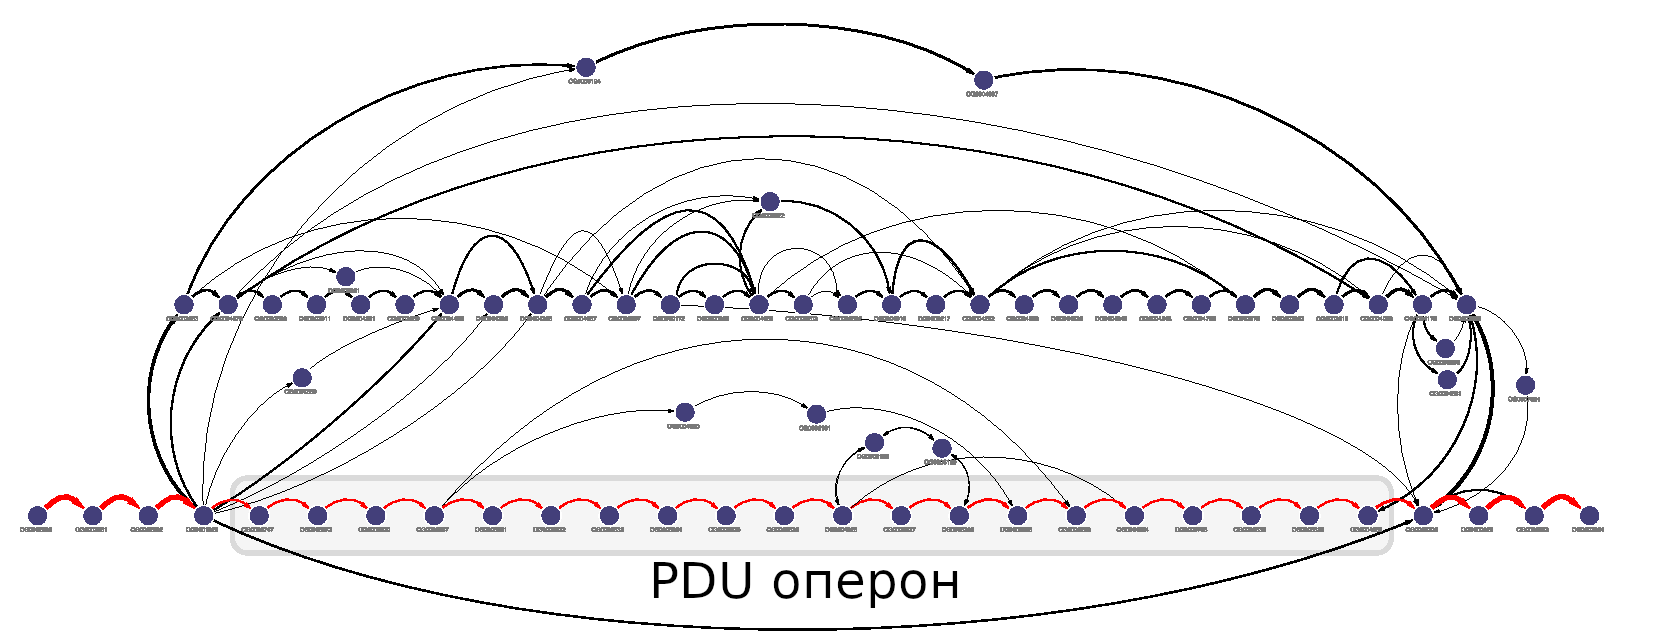
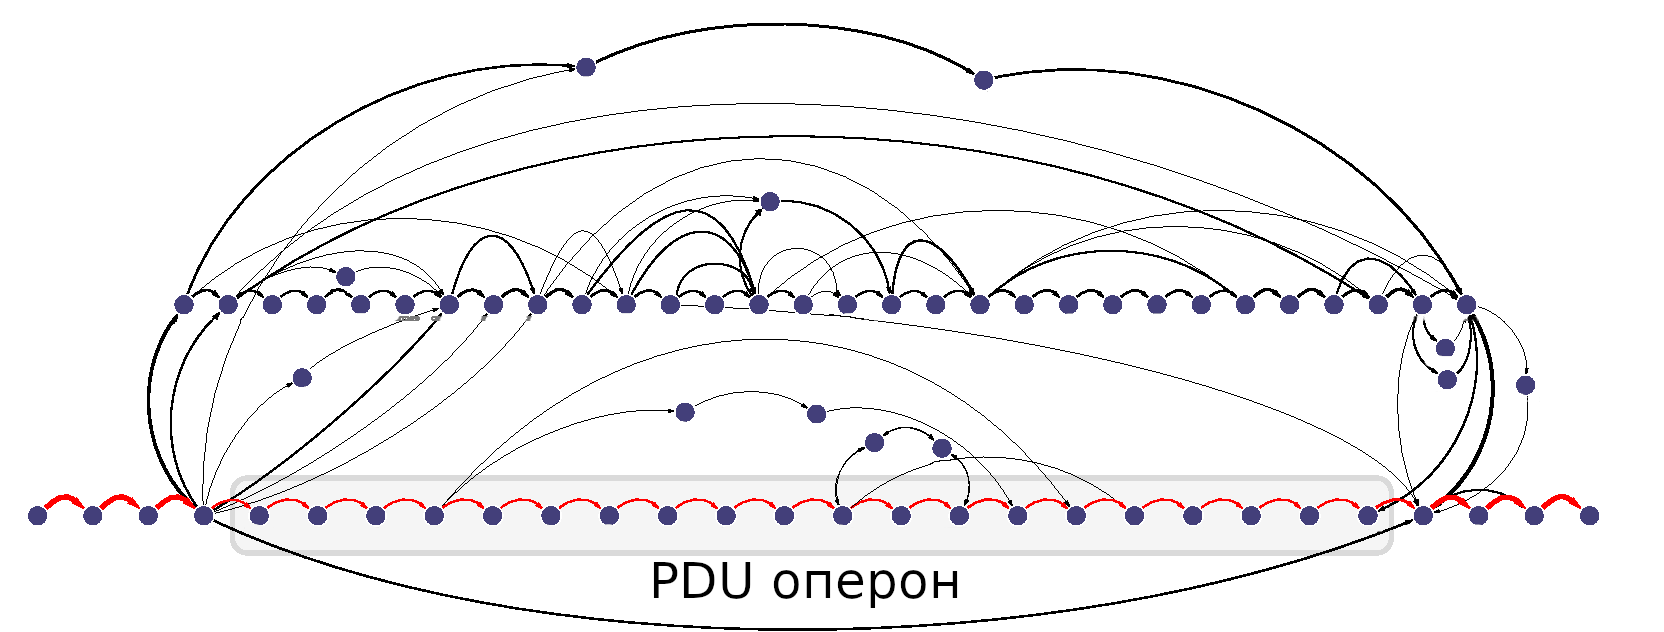
predzashita

diff --git a/Synopsis/content.tex b/Synopsis/content.tex
@@ -31,7 +31,7 @@
 
 \subsection*{Анализ изменчивости геномов отдельных видов прокариот}
 \subsubsection*{Отбор последовательностей геномов для анализа геномной вариабельности}
-Для анализа геномной изменчивости \textit{E. coli}, мы использовали 327 геномов данного организма доступные в базе RefSeq на момент ноября 2017 года и собранных до уровня репликонов ("финишированная"\ сборка). Для анализа изменчивости в различных филогруппах \textit{E. coli} нами были отобраны пять геномов --- представителей наиболее крупных филогрупп данного организма (подбор проводился на основе литературных данных); затем для каждого представителя были выбраны 100 наиболее близких по нуклеотидному составу геномов, доступных в базе RefSeq. Для поиска наиболее близких последовательностей геномов мы проводили выравнивание программой nucmer, сортировали последовательности по убыванию суммарной длины выровненных участков и выбирали 100 наиболее близких последовательностей; поиск проводили по всем последовательностям геномов, доступных в базе RefSeq. 
+Для анализа геномной изменчивости \textit{E. coli} мы использовали 327 геномов данного организма доступные в базе RefSeq на момент ноября 2017 года и собранных до уровня репликонов ("финишированная"\ сборка). Для анализа изменчивости в различных филогруппах \textit{E. coli} нами были отобраны пять геномов --- представителей наиболее крупных филогрупп данного организма (подбор проводился на основе литературных данных); затем для каждого представителя были выбраны 100 наиболее близких по нуклеотидному составу геномов, доступных в базе RefSeq. Для поиска наиболее близких последовательностей геномов мы проводили выравнивание программой nucmer, сортировали последовательности по убыванию суммарной длины выровненных участков и выбирали 100 наиболее близких последовательностей; поиск проводили по всем последовательностям геномов, доступных в базе RefSeq. 
 
 Для анализа внутривидовых структур у \textit{Pseudomonas aeruginosa}, \textit{Pseudomonas fluorescens} и \textit{Neisseria gonorrhoeae} нами были выгружены все полногеномные последовательности, доступные в RefSeq. Для каждого вида в отдельности было построено филогенетическое дерево при помощи утилиты ParSNP v1.2. На основании полученных филогенетических деревьев мы выбрали от двух до четырех клад дерева для дальнейшего анализа. При выборе мы ориентировались на количество геномов в соответствующей кладе. 
 
@@ -58,7 +58,7 @@
 
 \subsubsection*{Выделение изолятов \textit{E. coli}}
 
-Выделение \textit{E. coli} выполняли следующим образом. Приблизительно 0,05 мл объема фекалий помещали в 0,5 мл стерильного буфера (PBS), перемешивали на вортексе до гомогенности, аликвоту разбавляли примерно в 106 раз. Затем 0,1 мл полученной жидкости наносили на чашки со средой LB. После инкубации в течение ночи при 37$^\circ$C изолированные колонии идентифицировали с помощью программного обеспечения Matrix Assisted Laser Desorbtion / Ionization (MALDI) Biotyper (Bruker Daltonics, Германия) с использованием масс-спектрометра Microflex LT (Bruker Daltonics, Германия). Для экстракции ДНК все штаммы \textit{E. coli} выращивали в бульоне LB при 37$^\circ$C при встряхивании (200 об/мин) в течение ночи и собирали центрифугированием.
+Выделение \textit{E. coli} выполняли следующим образом. Приблизительно 0,05 мл объема фекалий помещали в 0,5 мл стерильного буфера (PBS), перемешивали на вортексе до гомогенности, аликвоту разбавляли примерно в $10^6$ раз. Затем 0,1 мл полученной жидкости наносили на чашки со средой LB. После инкубации в течение ночи при 37$^\circ$C изолированные колонии идентифицировали с помощью программного обеспечения Matrix Assisted Laser Desorbtion / Ionization (MALDI) Biotyper (Bruker Daltonics, Германия) с использованием масс-спектрометра Microflex LT (Bruker Daltonics, Германия). Для экстракции ДНК все штаммы \textit{E. coli} выращивали в бульоне LB при 37$^\circ$C при встряхивании (200 об/мин) в течение ночи и собирали центрифугированием.
 
 \subsubsection*{Экстракция ДНК и геномное секвенирование}
 
@@ -82,7 +82,7 @@
 \subsubsection{Поиск ортогрупп}
 Полученные последовательности геномов аннотировали с помощью программы PROKKA 1.7. Информация об оперонной структуре была получена из базы данных DOOR. Ортогруппы (группы гомологий включающие как ортологичные, так и паралогичные гены) были получены с помощью программы OrthoFinder v1.0.8. 
 
-Статистический анализ представленности генов и оперонов в последовательностях генома комменсальных штаммов \textit{E. coli}, либо штаммов полученных от пациентов с болезнью Крона проводился при помощи скриптов на языке R, принцип работы которых описан в соответствующем разделе главы Результаты.
+Статистический анализ представленности генов и оперонов в последовательностях генома комменсальных штаммов \textit{E. coli}, либо штаммов, полученных от пациентов с болезнью Крона, проводился при помощи скриптов на языке R, принцип работы которых описан в соответствующем разделе главы Результаты.
 
 
 \section*{Результаты}
@@ -98,19 +98,19 @@
   \label{img:scheme} 
 \end{figure}
 
-Предложенная схема требует уточнения в случае, когда несколько генов из одной геномной последовательности принадлежат к одной ортогруппе (мы будем называть такие гены паралогами). Мы предложили два подхода представления паралогичных генов в графе. В первом случае мы игнорируем паралогичные гены и не добавляем их в граф. Во втором --- мы проводим процедуру "ортологизации"\ паралогичных генов: гены из ортогруппы добавляем в граф с некоторым суффиксом, при этом гены имеющие одинаковый контекст добавляются с одним и тем же суффиксом. В нашей программной реализации пользователь может выбирать применяемый подход. 
+Предложенная схема требует уточнения в случае, когда несколько генов из одной геномной последовательности принадлежат к одной ортогруппе (мы будем называть такие гены паралогами). Мы предложили два подхода представления паралогичных генов в графе. В первом случае мы игнорируем паралогичные гены и не добавляем их в граф. Во втором --- мы проводим процедуру "ортологизации"\ паралогичных генов: гены из ортогруппы добавляем в граф с некоторым суффиксом, при этом гены, имеющие одинаковый контекст, добавляются с одним и тем же суффиксом. В нашей программной реализации пользователь может выбирать применяемый подход. 
 
 \subsection*{Оценка изменчивости геномов при помощи графового представления}
 
 Для исследования изменений генного состава в отдельном локусе генома, мы разработали процедуру построения подграфа, включающего только определенную область интереса референсного генома. Мы предложили использовать подсчет количества путей в соответствующем подграфе в качестве меры локальной изменчивости. В случае, если в некотором регионе не происходит изменений генного состава, то подграф представляет из себя простую структуру с одним возможным путем (способом обхода узлов). В случае, если в данной области происходят изменения, то в подграфе появляются новые пути. Чем больше различных вариантов сочетаний генов наблюдаются в геномных последовательностях, тем больше путей в соответствующем подграфе. 
 
-Оценка локальной вариабельности производится для одного выбранного гена референсного генома с учетом окна (смежных генов), размер которого задается пользователем. Алгоритм расчета состоит в следующем. Вначале строится референсная цепочка узлов, после чего происходит подсчет путей, которые огибают узел (то есть начинаются по одну сторону, а заканчиваются -- по другую). Для подсчета числа путей в графе мы применили вероятностный подход, что позволили увеличить скорость вычислений. Поиск одного пути происходит начиная с первого узла цепочки и затем  случайным образом выбираются последующие вершины, пока путь не вернется в референсную цепочку, либо пока не будет достигнуто максимальное количество переходов. Совершается фиксированное количество итераций поиска путей, каждый новый уникальный путь запоминается. Количество найденных различающихся путей мы считаем мерой локальной изменчивости.
+Оценка локальной вариабельности производится для одного выбранного гена референсного генома с учетом окна (смежных генов), размер которого задается пользователем. Алгоритм расчета состоит в следующем. Вначале строится референсная цепочка узлов, после чего происходит подсчет путей, которые огибают узел (то есть начинаются по одну сторону, а заканчиваются -- по другую). Для подсчета числа путей в графе мы применили вероятностный подход, что позволили увеличить скорость вычислений. Поиск одного пути происходит, начиная с первого узла цепочки, и затем  случайным образом выбираются последующие вершины, пока путь не вернется в референсную цепочку, либо пока не будет достигнуто максимальное количество переходов. Совершается фиксированное количество итераций поиска путей, каждый новый уникальный путь запоминается. Количество найденных различающихся путей мы считаем мерой локальной изменчивости.
 
 \subsection*{Верификация метода оценки локальной изменчивости}
-Для верификации предложенного алгоритма и его программной реализации мы использовали компьютерное моделирование изменений геномных последовательностей. Для каждого локуса моделируемого генома мы задавали определенный уровень изменчивости, затем вероятностным образом изменяли генный состав, получая множество различающихся геномов, и оценивали наблюдаемую вариабельность при помощи предложенного нами подхода. Изменения генного состава происходили за счет вставки, удаления либо перемещения генов а также инверсий фрагментов генома. Вероятность инверсий была в 100 раз меньше вероятностей остальных событий, а размер области для инверсии выбирался случайно из экспоненциального распределения. Локализация событий изменений генного состава выбиралась на каждом шаге случайно, в соответствии с распределением уровня вариабельности. Значения локальной вариабельности задавались в соответствии с одним из типов профилей: пилообразным, ступенчатым либо синусоидальным. Значения коэффициента $R^2$ между исходно заданным уровнем изменчивости и тем, что был оценен при помощи графового подхода, составили 0.95, 0.77 и 0.8 для ступенчатого, синусоидального и пилообразного профиля, соответственно, корреляции имели статистическую значимость с ${p-value < 10^{-10} }$.
+Для верификации предложенного алгоритма и его программной реализации мы использовали компьютерное моделирование изменений геномных последовательностей. Для каждого локуса моделируемого генома мы задавали определенный уровень изменчивости, затем вероятностным образом изменяли генный состав, получая множество различающихся геномов, и оценивали наблюдаемую вариабельность при помощи предложенного нами подхода. Изменения генного состава происходили за счет вставки, удаления либо перемещения генов, а также инверсий фрагментов генома. Вероятность инверсий была в 100 раз меньше вероятностей остальных событий, а размер области для инверсии выбирался случайно из экспоненциального распределения. Локализация событий изменений генного состава выбиралась на каждом шаге случайно, в соответствии с распределением уровня вариабельности. Значения локальной вариабельности задавались в соответствии с одним из типов профилей: пилообразным, ступенчатым либо синусоидальным. Значения коэффициента $R^2$ между исходно заданным уровнем изменчивости и тем, что был оценен при помощи графового подхода, составили 0.95, 0.77 и 0.8 для ступенчатого, синусоидального и пилообразного профиля, соответственно, корреляции имели статистическую значимость с ${p-value < 10^{-10} }$.
 
 \subsection*{Анализ расположения областей повышенной изменчивости в геномных последовательностях кишечной палочки}
-Для проведения данного анализа мы собрали коллекцию из 327 геномов бактерии \textit{E. coli} доступных в базе данных RefSeq, построили группы гомологии при помощи программы Orthofinder и применили разработанной нами метод оценки уровня геномной вариабельности; в качестве референсного генома был выбран геном штамма \textit{E. coli LF82}, изолированного от пациента с болезнью Крона. На рисунке~\ref{img:complexity_lf82} показан профиль изменчивости и области расположения профагов, островов патогенности, генов рекомбиназ (для выявления следов мобильных элементов генома), жизненно необходимых генов (мутации в которых являются летальными) и генов транспортных и рибосомных РНК.
+Для проведения данного анализа мы собрали коллекцию из 327 геномов бактерии \textit{E. coli}, доступных в базе данных RefSeq, построили группы гомологии при помощи программы Orthofinder и применили разработанной нами метод оценки уровня геномной вариабельности; в качестве референсного генома был выбран геном штамма \textit{E. coli LF82}, изолированного от пациента с болезнью Крона. На рисунке~\ref{img:complexity_lf82} показан профиль изменчивости и области расположения профагов, островов патогенности, генов рекомбиназ (для выявления следов мобильных элементов генома), жизненно необходимых генов (мутации в которых являются летальными) и генов транспортных и рибосомных РНК.
 
 \begin{figure}[!ht] 
     \center
@@ -119,13 +119,16 @@
     \label{img:complexity_lf82} 
   \end{figure}
 
-Можно заметить, что участки генома содержащие жизненно необходимые гены, как правило, мало изменчивы а к высокоизминчивым областям генома относятся профаги и острова патогенности. При этом, наблюдаются также высокоизменчивые области генома, в которых отсутствуют признаки мобильных элементов; причины их высокой изменчивости остаются неизвестными. Гены транспортных РНК не проявляют явной ассоциации с профилем изменчивости. Гены рибосомной РНК находятся преимущественно в мало изменчивых областях генома. 
+Можно заметить, что участки генома, содержащие жизненно необходимые гены, как правило, мало изменчивы, а к высокоизминчивым областям генома относятся профаги и острова патогенности. При этом, наблюдаются также высокоизменчивые области генома, в которых отсутствуют признаки мобильных элементов; причины их высокой изменчивости остаются неизвестными. Гены транспортных РНК не проявляют явной ассоциации с профилем изменчивости. Гены рибосомной РНК находятся преимущественно в мало изменчивых областях генома. 
 
 Время существования вида \textit{E. coli} оценивается в несколько десятков миллионов лет; возникает вопрос об устойчивости расположения "горячих"\ областей генома с течением времени. Мы провели сравнение профилей изменчивости подвидовых структур кишечной палочки. Для создания набора геномов мы выбрали по одному представителю из наиболее крупных филогенетических клад (филогрупп A, B1, B2, E) и подобрали для каждого из них по сто ближайший геномов из базы NCBI RefSeq. Затем мы рассчитали профили изменчивости для каждой филогруппы в отдельности и сравнили их между собой. Результат сравнения показан на рисунке~\ref{img:phylogroups_complex}, серым цветом обозначены блоки синтении, оранжевым -- области нахождения профагов.    
 
 \begin{figure}[!ht] 
     \center
-      \includegraphics[width=\textwidth]{Dissertation/images/complexity/coli_phylogroups_complexity2.png}
+    \setlength{\fboxsep}{10pt}%
+    \setlength{\fboxrule}{0pt}%
+    \fbox{
+    \includegraphics[width=\textwidth]{Dissertation/images/complexity/coli_phylogroups_complexity2.png}}
     \caption{Сравнение профилей вариабельности представителей пяти филогрупп \textit{E. coli LF82}. Оранжевым цветом выделены области, определенные как профаговые. Блоками серого цвета показаны области синтении. Показаны профили для штаммов: O157:H7 (филогруппа E), IAI1 (B1), K12 (A), UMN026 (D), LF82 (B2). }
     \label{img:phylogroups_complex} 
   \end{figure}
@@ -134,14 +137,14 @@
 
 Сравнение показывает, что ряд областей генома с повышенной изменчивостью присутствуют во всех или в большинстве филогрупп, что, по-видимому, свидетельствует об их существовании на протяжении значительной части времени жизни вида. Часть из этих областей соответствуют местам расположение профагов и их устойчивость можно объяснить сайт специфичным характером встраивания данных элементов. Одна из устойчивых "горячих"\ точек (выделена линией красного цвета) не имеет выявленных признаков мобильных элементов генома. Значительная часть "горячих"\ областей геномов является местами встройки фагов, что особенно заметно на примере филогруппы E (верхний профиль на рисунке~\ref{img:phylogroups_complex}), для которой была описана вирусная экспансия, значительно удлинившая геномную последовательность (на рисунке длины геномов приведены к одинаковой ширине, но о размере генома можно судить по координатным осям ниже профилей изменчивости).
 
-Замечено также существование и "холодных"\ областей генома с низкой вариабельностью во всех филогруппах. Длина этих участков может значительно превышать длины, характерные для оперонов, и достигать величин порядка миллиона пар оснований (например, область, выделенная зеленой линией на рисунке~\ref{img:phylogroups_complex}).
+Имеются также и "холодные"\ области генома с низкой вариабельностью во всех филогруппах. Длина этих участков может значительно превышать длины, характерные для оперонов, и достигать величин порядка миллиона пар оснований (например, область, выделенная зеленой линией на рисунке~\ref{img:phylogroups_complex}).
 
 \subsection*{Алгоритмизация подхода выявления оперонов, наличие которых ассоциировано с определенным признаком. } \label{chaptOperons}
 
 Предположим, что у нас есть некоторый признак, по которому мы можем разбить набор геномов на группы и наша задача --- установить, какие гены значимо чаще (либо реже) встречаются в одной из групп. Простым и распространенным методом анализа, в подобном случае, является вычисление статистики и оценка значимости по каждому отдельному гену. Затем необходимо применить поправку на множественное сравнение, так как иначе следует ожидать множество ложно положительных результатов. В случае, если работа ведется на данных о полной последовательности генома, имеется большое количество анализируемых генов (порядка $10^3 - 10^4$), а размеры групп, как правило, незначительны (порядка $10^1 - 10^2$), что приводит к тому, что после поправки на множественное сравнение, ни один из анализируемых генов не проходит даже низкие пороги на значимость. В качестве одного из способов преодоления описанной выше проблемы мы предложили использовать информацию об организации генов в опероны для поиска значимых ассоциаций. Рассматривая оперон как структурную единицу, мы значительно сокращаем количество анализируемых признаков.
 
 \textbf{Алгоритм поиска генетических ассоциаций}
-На входе необходимо иметь два или более набора геномных последовательностей и выбрать один референсный геном для которого известна оперонная структура. Первым шагом выполняется построение групп гомологий и оценка статистической значимости их неравной представленности в сравниваемых выборках. Затем ищутся опероны, в которых количество найденных ассоциированных генов выше, чем ожидалось бы при случайном распределении генов по оперонам. Для оценки ожидаемого количества генов при их случайном распределении мы предложили использовать два подхода. Первый основан на пермутациях таблицы соответствий генов и оперонов. Второй предполагает рассчет ожидаемого значения исходя из расспределения Пуассона, параметр которого рассчитывается как доля значимо ассоциированных генов среди общего числа генов в референсном геноме. Финальным шагом является проведение поправки на множественное сравнение, но уже не для генов, а для оперонов, количество которых, как правило, значительно ниже общего количества генов. 
+На входе необходимо иметь два или более набора геномных последовательностей и выбрать один референсный геном для которого известна оперонная структура. Первым шагом выполняется построение групп гомологий и оценка статистической значимости их неравной представленности в сравниваемых выборках. Затем ищутся опероны, в которых количество найденных ассоциированных генов выше, чем ожидалось бы при случайном распределении генов по оперонам. Для оценки ожидаемого количества генов при их случайном распределении мы предложили использовать два подхода. Первый основан на пермутациях таблицы соответствий генов и оперонов. Второй предполагает расчет ожидаемого значения исходя из распределения Пуассона, параметр которого рассчитывается как доля значимо ассоциированных генов среди общего числа генов в референсном геноме. Финальным шагом является проведение поправки на множественное сравнение, но уже не для генов, а для оперонов, количество которых, как правило, значительно ниже общего количества генов. 
 
 \textbf{Поиск оперонов, значимо чаще встречающихся у изолятов бактерий \textit{E. coli}, изолированных от людей с болезнью Крона}
 В анализе были использованы геномные последовательности 51 изолятов \textit{E. coli}, 27 из которых были получены от пациентов с болезнью Крона, 24 --- от здоровых людей. При помощи программы OrthoFinder мы получили 11885 групп гомологии. Далее, при помощи точного теста Фишера оценили статистическую значимость их неравномерной распространенности между группами.  
@@ -150,8 +153,10 @@
 
 \begin{figure}[!ht] 
   \center
-    \includegraphics [width=0.75\textwidth] {Dissertation/images/operons/statsignificant_operons.png}
-    \caption{Зависимость доли генов в оперонах, с уровнем значимости p-value < 0.05, от количества генов входящих в оперон. Пунктирная линия показывает максимальные значения, полученные при проведении 10000 случайных соотнесений генов и оперонов. Синим цветом выделены точки, соответствующие оперонам которые неравномерно представлены между группами согласно пермутационному тесту.}
+    \setlength{\fboxsep}{10pt}%
+    \setlength{\fboxrule}{0pt}%
+    \fbox{\includegraphics [width=0.75\textwidth] {Dissertation/images/operons/statsignificant_operons.png}}
+    \caption{Зависимость доли генов в оперонах, с уровнем значимости p-value < 0.05, от количества генов входящих в оперон. Пунктирная линия показывает максимальные значения, полученные при проведении 10000 случайных соотнесений генов и оперонов. Синим цветом выделены точки, соответствующие оперонам, которые неравномерно представлены между группами согласно пермутационному тесту.}
     \label{img:operons_shuffle}
 \end{figure}
 
@@ -161,16 +166,20 @@
 \centering
 \caption{Список оперонов статистически значимо пере-представленных в группе штаммов \textit{E. coli} изолированных от пациентов с болезнью Крона. N - количество генов, Pobs - наблюдаемая доля перепредставленных генов в опероне, Pmean - средняя доля перепредставленных генов при случайных пермутациях, Pmax - максимальная доля перепредставленных генов при случайных пермутациях.}
 \label{tbl:ops1}
+\setlength{\fboxsep}{10pt}%
+\setlength{\fboxrule}{0pt}%
+\fbox{
 \begin{tabular}{|l|l|l|l|l|}
 \hline
 \textbf{N} & \textbf{Pobs} & \textbf{Pmean} & \textbf{Pmax} & \textbf{функция}                                  \\ \hline
 4          & 1             & 0.03          & 0.75         & glyoxilate metabolism operon \\ \hline
-6          & 0.83          & 0.02          & 0.67         & capsular assembly PAI IV LF82                              \\ \hline
+6          & 0.83          & 0.02          & 0.67         & group 2 capsule assembly and export     \\ \hline
 6          & 1             & 0.02          & 0.67         & hemin uptake operon                                       \\ \hline
 7          & 0.86          & 0.03          & 0.57         & sorbose uptake and utilization                             \\ \hline
 16         & 0.56          & 0.02          & 0.31         & prophage I LF82                                            \\ \hline
 19         & 0.74          & 0.03          & 0.21         & propanediol utilization operon                         \\ \hline
 \end{tabular}
+}
 \end{table}
 
 
@@ -205,7 +214,10 @@
 
 \begin{figure}[!ht] 
   \center
-    \includegraphics[width=0.8\textwidth]{Dissertation/images/subgraphs/pdu_laconic.png}
+  \setlength{\fboxsep}{10pt}%
+  \setlength{\fboxrule}{0pt}%
+  \fbox{
+    \includegraphics[width=0.8\textwidth]{Dissertation/images/subgraphs/pdu_laconic.png}}
   \caption{Граф представляющий окрестность оперона утилизации пропандиола (propanediol utilization operon, pdu). Видна значительная вариабельность генного состава в данном регионе, что отражено во множестве путей на графе обходящих область генов оперона.}
   \label{img:sub_pdu} 
 \end{figure}
@@ -216,7 +228,7 @@
 \begin{figure}[!ht] 
   \center
     \includegraphics[width=\textwidth]{Dissertation/images/subgraphs/capsular_subgraph.png}
-  \caption{Граф представляющий окрестность кластера генов синтеза бактериальной капсулы. }
+  \caption{Граф представляющий окрестность кластера генов синтеза и транспортировки компонент бактериальной капсулы. }
   \label{img:capsule_sub_small} 
 \end{figure}
 
@@ -224,7 +236,7 @@
 
 \subsection*{Разработка компьютерного приложения для анализа вариабельности геномов} \label{chaptGCB}
 
-Оценка профиля изменчивости и визуализация подграфов --- это варианты анализа геномной изменчивости на различных уровнях: на уровне хромосомы или плазмиды в первом случае и на уровне небольших геномных локусов (например, оперонов) --- во втором. Для проведения анализа на двух уровнях одновременно мы разработали приложение Genome Complexity Browser (GCB). Данное приложение доступно по адресу \url{https://gcb.rcpcm.org}, и может быть запущенго на локальном компьютере пользователя. Веб-версия содержит данные о геномной изменчивости для 143 видов прокариот. Использование локальной версии необходимо для анализа групп геномов не представленных на веб-сервере.
+Оценка профиля изменчивости и визуализация подграфов --- это варианты анализа геномной изменчивости на различных уровнях: на уровне хромосомы или плазмиды в первом случае и на уровне небольших геномных локусов (например, оперонов) --- во втором. Для проведения анализа на двух уровнях одновременно мы разработали приложение Genome Complexity Browser (GCB). Данное приложение доступно по адресу \url{https://gcb.rcpcm.org}, и может быть запущено на локальном компьютере пользователя. Веб-версия содержит данные о геномной изменчивости для 143 видов прокариот. Использование локальной версии необходимо для анализа групп геномов не представленных на веб-сервере.
 
 Основные сценарии использования программы следующие:
 
